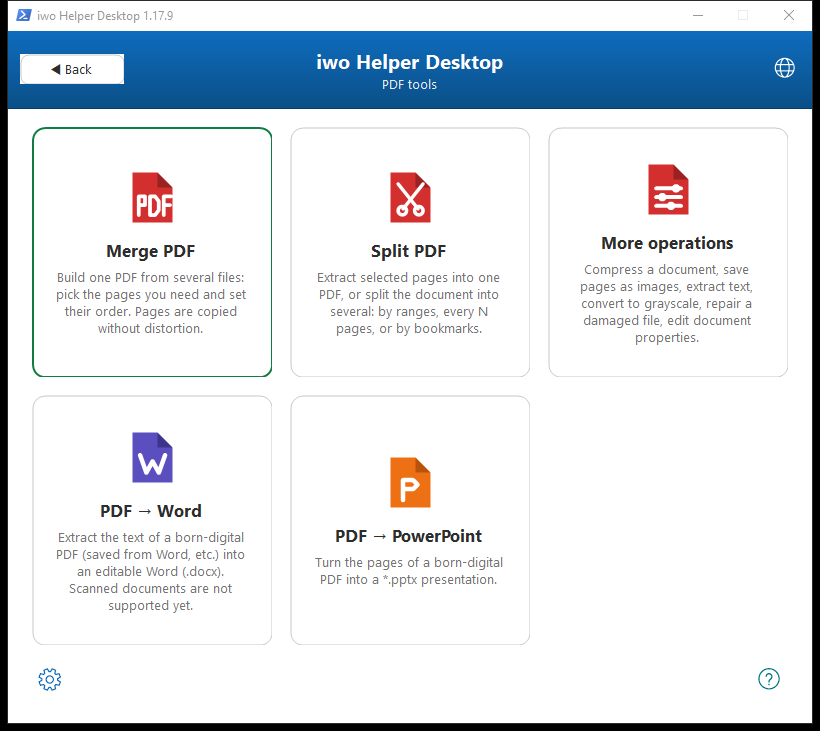
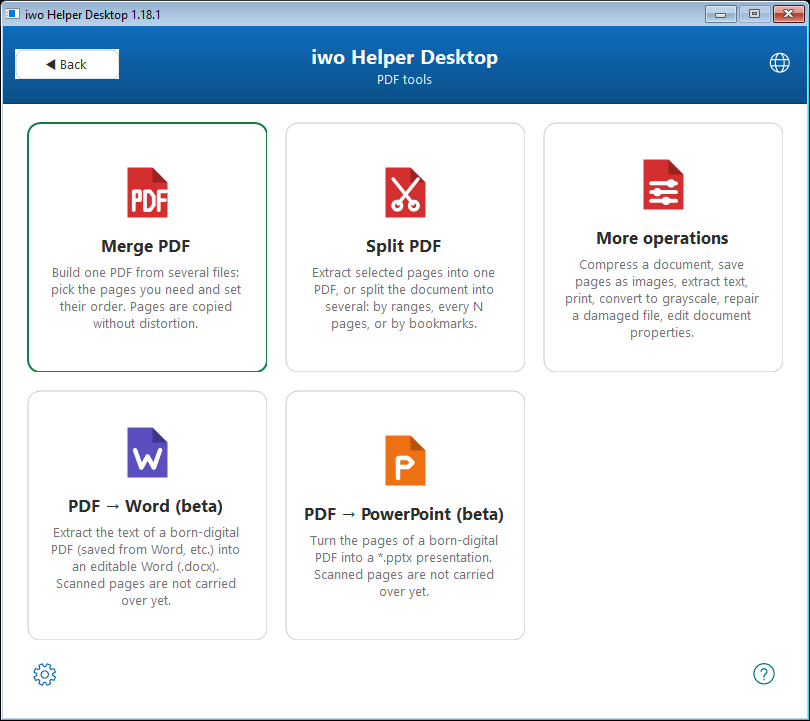
Refresh README screenshots from the manual, add a More operations tile

diff --git a/README.md b/README.md
@@ -86,10 +86,10 @@ A page workshop over one document. **Assemble** what you need — open a PDF and
 
 |  |  |
 |:--:|:--:|
-| <img src="docs/screenshots/hub-main.png" width="400" alt="Start screen"><br>**Start screen** — pick a section | <img src="docs/screenshots/hub.png" width="400" alt="PDF tools"><br>**PDF tools** — six tools in the section |
-| <img src="docs/screenshots/pdf-merge.png" width="400" alt="PDF Merge"><br>**PDF Merge** — thumbnails & compression | <img src="docs/screenshots/pdf-split.png" width="400" alt="PDF Split"><br>**PDF Split** — modes & compression |
-| <img src="docs/screenshots/pdf-word.png" width="400" alt="PDF to Word"><br>**PDF → Word** — text & tables into an editable `.docx` | <img src="docs/screenshots/pdf-pptx.png" width="400" alt="PDF to PowerPoint"><br>**PDF → PowerPoint** — pages into slides with editable text |
-| <img src="docs/screenshots/excel.png" width="400" alt="Merge Excel"><br>**Merge Excel** — sheets of a folder into one digest | |
+| <img src="docs/screenshots/hub-main.png" width="400" alt="Start screen"><br>**Start screen** — pick a section | <img src="docs/screenshots/hub.png" width="400" alt="PDF tools"><br>**PDF tools** — five tools in the section |
+| <img src="docs/screenshots/pdf-merge.png" width="400" alt="Merge PDF"><br>**Merge PDF** — thumbnails & four levels of compression | <img src="docs/screenshots/pdf-split.png" width="400" alt="Split PDF"><br>**Split PDF** — four modes, ready page ranges |
+| <img src="docs/screenshots/pdf-ops.png" width="400" alt="More operations"><br>**More operations** — convert, extract, print, properties | <img src="docs/screenshots/pdf-word.png" width="400" alt="PDF to Word"><br>**PDF → Word** — text & tables into an editable `.docx` |
+| <img src="docs/screenshots/pdf-pptx.png" width="400" alt="PDF to PowerPoint"><br>**PDF → PowerPoint** — pages into slides with editable text | <img src="docs/screenshots/excel.png" width="400" alt="Merge Excel"><br>**Merge Excel** — sheets of a folder into one digest |
 
 ## ⬇ Download
 
